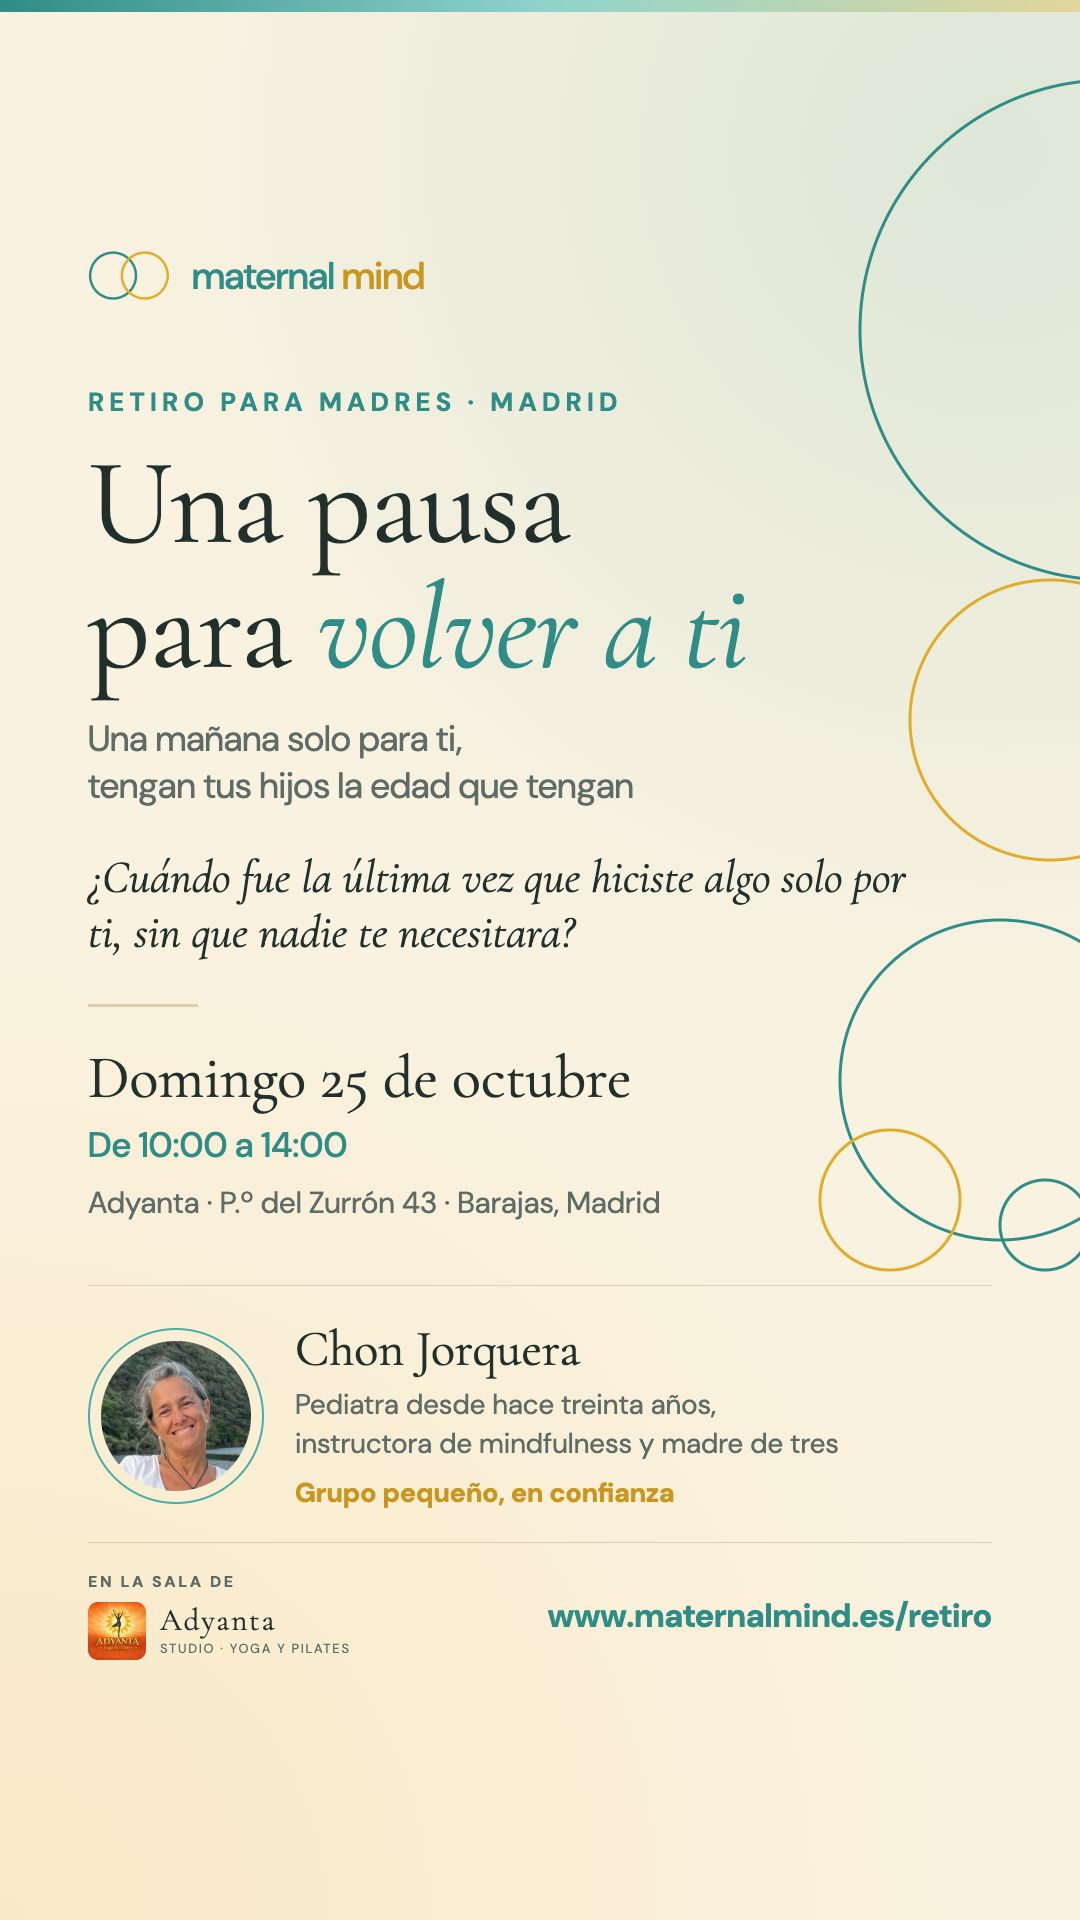
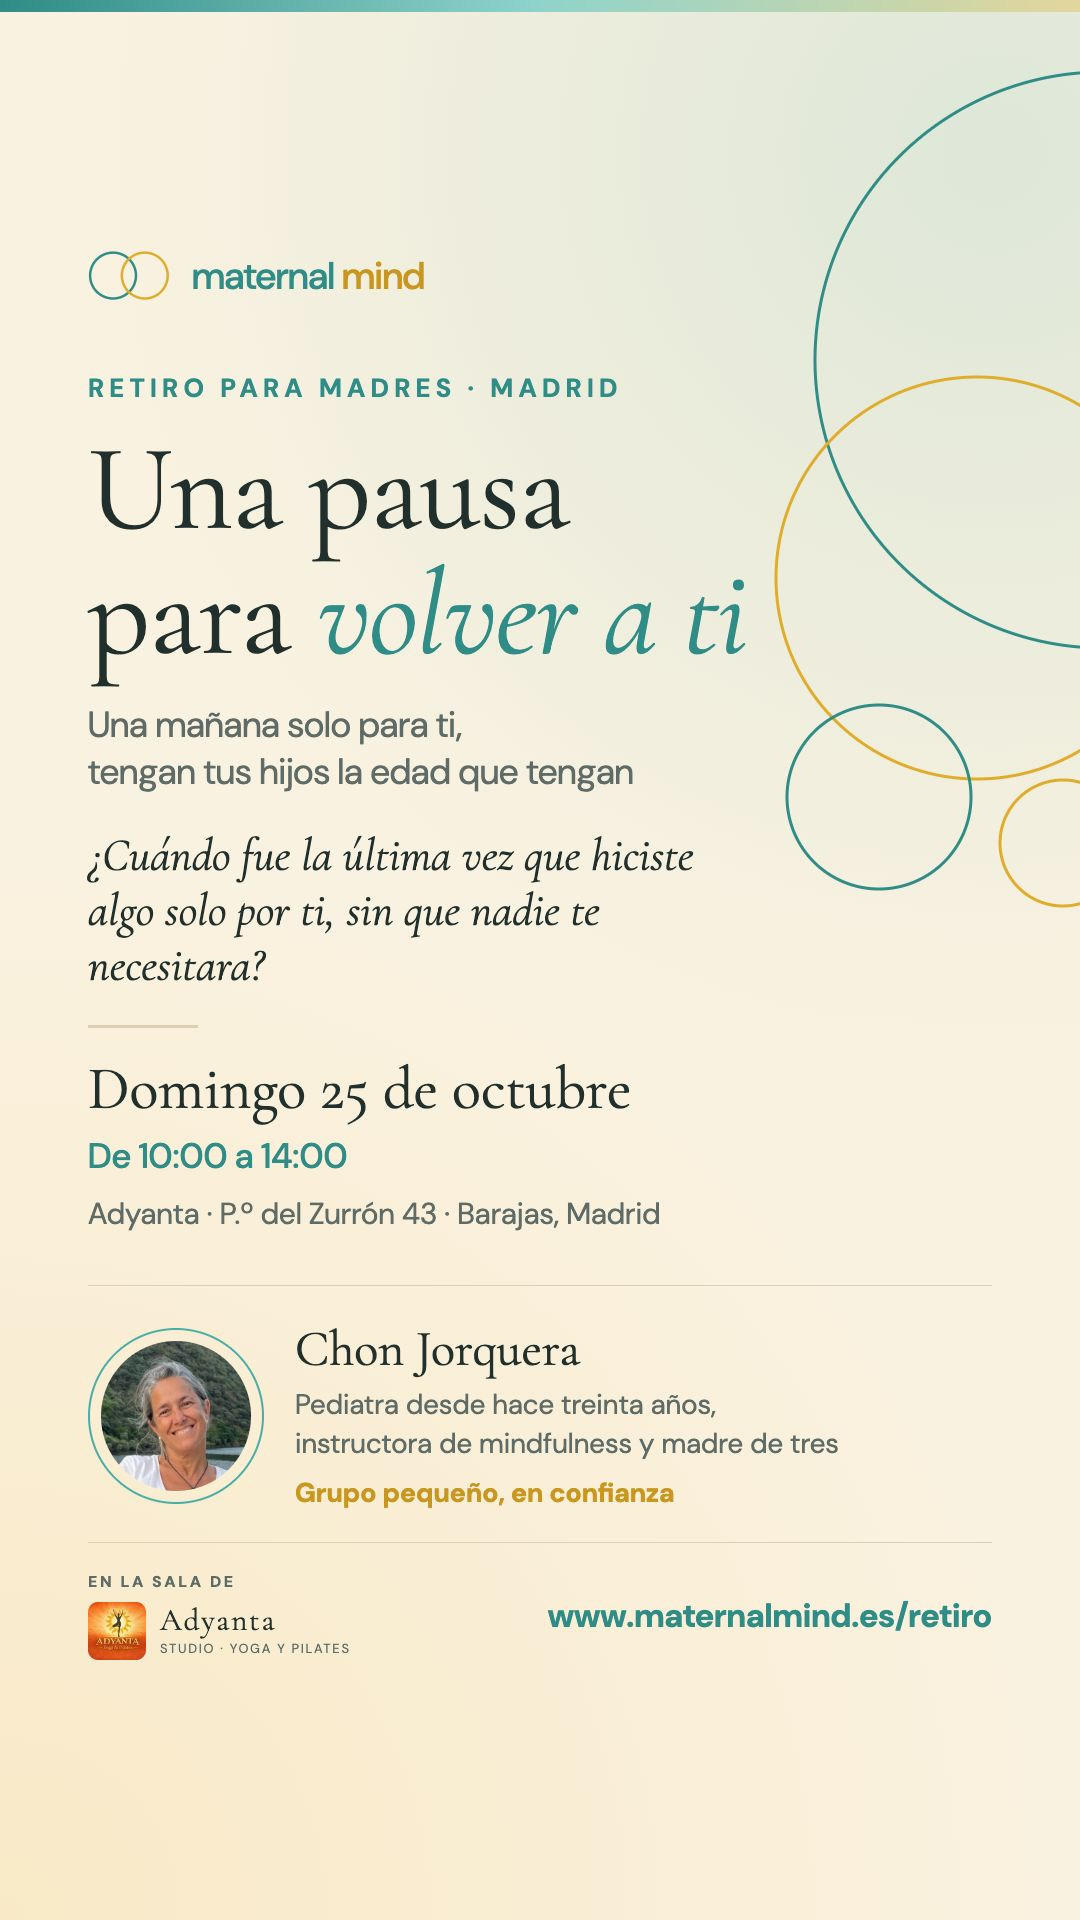
Stories del retiro con el mismo grupo de aros que el resto de piezas

diff --git a/retiros/img/retiro-story-adyanta.html b/retiros/img/retiro-story-adyanta.html
@@ -70,11 +70,11 @@
   body{padding:250px 88px 260px}
   .aros{width:82px}
   .palabra{font-size:38px}
-  .ceja{margin-top:84px;font-size:26px}
+  .ceja{margin-top:70px;font-size:26px}
   h1{margin-top:22px;font-size:122px}
   .edades{margin-top:26px;font-size:36px}
-  .hook{margin-top:40px;font-size:46px;max-width:860px}
-  .filete{width:110px;margin:44px 0 40px}
+  .hook{margin-top:32px;font-size:46px;max-width:640px}
+  .filete{width:110px;margin:32px 0 30px}
   .dia{font-size:60px}
   .hora{margin-top:12px;font-size:35px}
   .sitio{margin-top:14px;font-size:30px}
@@ -99,11 +99,10 @@
 </style>
 <body class="con-adyanta">
 <svg class="grabado" viewBox="0 0 1080 1920" aria-hidden="true" fill="none" stroke-width="3">
-  <circle cx="1110" cy="330" r="250" stroke="#2F8C86"/>
-  <circle cx="1050" cy="720" r="140" stroke="#E0AC2B"/>
-  <circle cx="1000" cy="1080" r="160" stroke="#2F8C86"/>
-  <circle cx="890" cy="1200" r="70" stroke="#E0AC2B"/>
-  <circle cx="1045" cy="1225" r="45" stroke="#2F8C86"/>
+  <circle cx="1103" cy="360" r="288" stroke="#2F8C86"/>
+  <circle cx="977" cy="578" r="201" stroke="#E0AC2B"/>
+  <circle cx="879" cy="797" r="92" stroke="#2F8C86"/>
+  <circle cx="1063" cy="843" r="63" stroke="#E0AC2B"/>
 </svg>
 
 <div class="marca">

diff --git a/retiros/img/retiro-story.html b/retiros/img/retiro-story.html
@@ -70,11 +70,11 @@
   body{padding:250px 88px 260px}
   .aros{width:82px}
   .palabra{font-size:38px}
-  .ceja{margin-top:84px;font-size:26px}
+  .ceja{margin-top:70px;font-size:26px}
   h1{margin-top:22px;font-size:122px}
   .edades{margin-top:26px;font-size:36px}
-  .hook{margin-top:40px;font-size:46px;max-width:860px}
-  .filete{width:110px;margin:44px 0 40px}
+  .hook{margin-top:32px;font-size:46px;max-width:640px}
+  .filete{width:110px;margin:32px 0 30px}
   .dia{font-size:60px}
   .hora{margin-top:12px;font-size:35px}
   .sitio{margin-top:14px;font-size:30px}
@@ -99,11 +99,10 @@
 </style>
 <body class="">
 <svg class="grabado" viewBox="0 0 1080 1920" aria-hidden="true" fill="none" stroke-width="3">
-  <circle cx="1110" cy="330" r="250" stroke="#2F8C86"/>
-  <circle cx="1050" cy="720" r="140" stroke="#E0AC2B"/>
-  <circle cx="1000" cy="1080" r="160" stroke="#2F8C86"/>
-  <circle cx="890" cy="1200" r="70" stroke="#E0AC2B"/>
-  <circle cx="1045" cy="1225" r="45" stroke="#2F8C86"/>
+  <circle cx="1103" cy="360" r="288" stroke="#2F8C86"/>
+  <circle cx="977" cy="578" r="201" stroke="#E0AC2B"/>
+  <circle cx="879" cy="797" r="92" stroke="#2F8C86"/>
+  <circle cx="1063" cy="843" r="63" stroke="#E0AC2B"/>
 </svg>
 
 <div class="marca">
